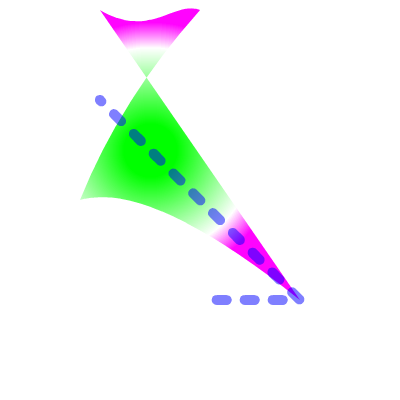
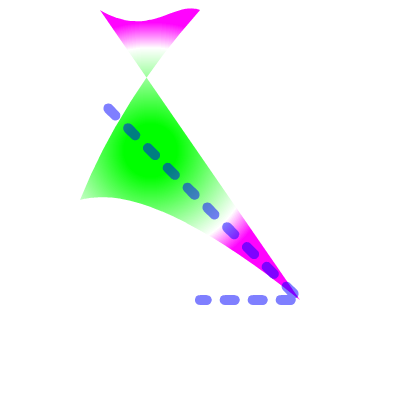
Fix dash offset handling.
Fixes #38

diff --git a/src/dash.rs b/src/dash.rs
@@ -4,7 +4,7 @@ use crate::Point;
 
 use lyon_geom::LineSegment;
 
-pub fn dash_path(path: &Path, dash_array: &[f32], dash_offset: f32) -> Path {
+pub fn dash_path(path: &Path, dash_array: &[f32], mut dash_offset: f32) -> Path {
     let mut dashed = PathBuilder::new();
 
     let mut cur_pt = Point::zero();
@@ -15,8 +15,9 @@ pub fn dash_path(path: &Path, dash_array: &[f32], dash_offset: f32) -> Path {
 
     // adjust our position in the dash array by the dash offset
     while dash_offset > remaining_dash_length {
-        remaining_dash_length = dash_array[current_dash % dash_array.len()];
+        dash_offset -= remaining_dash_length;
         current_dash += 1;
+        remaining_dash_length = dash_array[current_dash % dash_array.len()];
         dash_on = !dash_on;
     }
     remaining_dash_length -= dash_offset;

diff --git a/src/tests.rs b/src/tests.rs
@@ -194,4 +194,26 @@ mod tests {
                   &DrawOptions::new());
 
     }
+
+    #[cfg(not(miri))]
+    #[test]
+    fn dashing() {
+        let mut dt = DrawTarget::new(3, 3);
+        let mut pb = PathBuilder::new();
+        pb.move_to(40., 40.);
+        pb.line_to(160., 40.);
+        pb.line_to(160., 160.);
+        pb.line_to(160., 160.);
+        pb.close();
+        dt.stroke(&pb.finish(), &Source::Solid(SolidSource {
+            r: 0xff,
+            g: 0xff,
+            b: 0xff,
+            a: 0xff,
+        }),
+                  &StrokeStyle { width: 1., dash_array: vec![10.0, 6.0, 4.0, 10.0, 6.0, 4.0],
+                      dash_offset: 15.0, ..Default::default()},
+                  &DrawOptions::new());
+
+    }
 }
